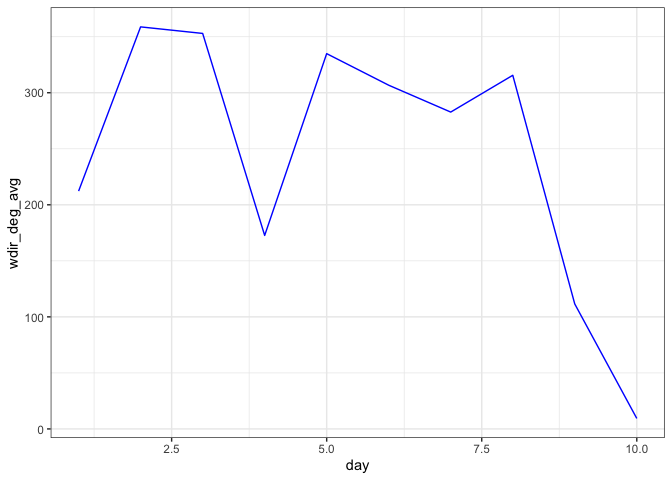
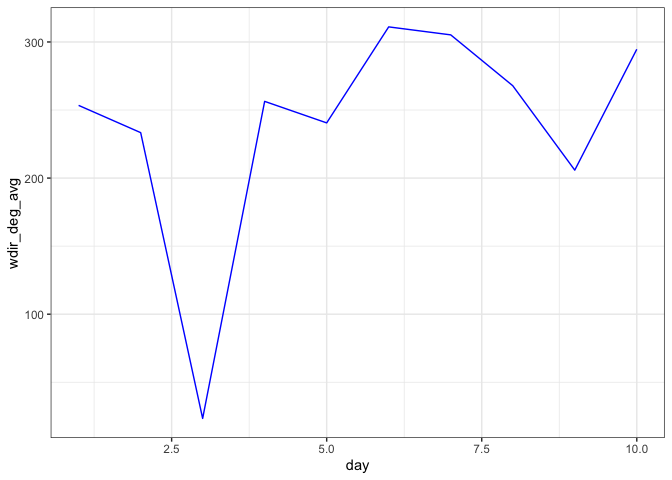
minor adjustments to R script and markdown document

diff --git a/vector-avg-wind-direction.md b/vector-avg-wind-direction.md
@@ -34,14 +34,14 @@ library(knitr)
 library(tidyverse)
 ```
 
-    ## ── Attaching packages ──────────────────────────────────────────────────────────────────────────────────────────────────────────────────────────────────────────────── tidyverse 1.3.0 ──
+    ## ── Attaching packages ────────────────────────────────────────────────────────────────────────────── tidyverse 1.3.0 ──
 
     ## ✓ ggplot2 3.3.2     ✓ purrr   0.3.4
     ## ✓ tibble  3.0.3     ✓ dplyr   1.0.1
     ## ✓ tidyr   1.1.1     ✓ stringr 1.4.0
     ## ✓ readr   1.3.1     ✓ forcats 0.5.0
 
-    ## ── Conflicts ─────────────────────────────────────────────────────────────────────────────────────────────────────────────────────────────────────────────────── tidyverse_conflicts() ──
+    ## ── Conflicts ───────────────────────────────────────────────────────────────────────────────── tidyverse_conflicts() ──
     ## x dplyr::filter() masks stats::filter()
     ## x dplyr::lag()    masks stats::lag()
 
@@ -112,10 +112,10 @@ weather_data <-
     ## Rows: 1,000
     ## Columns: 5
     ## $ day          <int> 1, 1, 1, 1, 1, 1, 1, 1, 1, 1, 1, 1, 1, 1, 1, 1, 1, 1, 1,…
-    ## $ wind_speed   <int> 11, 0, 15, 4, 14, 18, 11, 2, 17, 16, 4, 3, 2, 1, 2, 15, …
-    ## $ wdir_integer <int> 2, 10, 3, 11, 8, 4, 10, 12, 2, 0, 0, 14, 3, 14, 8, 14, 0…
-    ## $ wdir_text    <chr> "NE", "SW", "ENE", "WSW", "S", "E", "SW", "W", "NE", "N"…
-    ## $ wdir_degree  <dbl> 45.0, 225.0, 67.5, 247.5, 180.0, 90.0, 225.0, 270.0, 45.…
+    ## $ wind_speed   <int> 7, 12, 1, 4, 17, 2, 3, 17, 14, 1, 4, 4, 3, 0, 0, 3, 8, 1…
+    ## $ wdir_integer <int> 11, 13, 13, 3, 11, 4, 12, 7, 2, 6, 8, 0, 8, 5, 2, 13, 10…
+    ## $ wdir_text    <chr> "WSW", "WNW", "WNW", "ENE", "WSW", "E", "W", "SSE", "NE"…
+    ## $ wdir_degree  <dbl> 247.5, 292.5, 292.5, 67.5, 247.5, 90.0, 270.0, 157.5, 45…
 
 ### Vector averaging and results
 
@@ -136,12 +136,12 @@ weather_data %>% glimpse()
     ## Rows: 1,000
     ## Columns: 7
     ## $ day          <int> 1, 1, 1, 1, 1, 1, 1, 1, 1, 1, 1, 1, 1, 1, 1, 1, 1, 1, 1,…
-    ## $ wind_speed   <int> 11, 0, 15, 4, 14, 18, 11, 2, 17, 16, 4, 3, 2, 1, 2, 15, …
-    ## $ wdir_integer <int> 2, 10, 3, 11, 8, 4, 10, 12, 2, 0, 0, 14, 3, 14, 8, 14, 0…
-    ## $ wdir_text    <chr> "NE", "SW", "ENE", "WSW", "S", "E", "SW", "W", "NE", "N"…
-    ## $ wdir_degree  <dbl> 45.0, 225.0, 67.5, 247.5, 180.0, 90.0, 225.0, 270.0, 45.…
-    ## $ wdir_u       <dbl> -7.778175e+00, 0.000000e+00, -1.385819e+01, 3.695518e+00…
-    ## $ wdir_v       <dbl> -7.778175e+00, 0.000000e+00, -5.740251e+00, 1.530734e+00…
+    ## $ wind_speed   <int> 7, 12, 1, 4, 17, 2, 3, 17, 14, 1, 4, 4, 3, 0, 0, 3, 8, 1…
+    ## $ wdir_integer <int> 11, 13, 13, 3, 11, 4, 12, 7, 2, 6, 8, 0, 8, 5, 2, 13, 10…
+    ## $ wdir_text    <chr> "WSW", "WNW", "WNW", "ENE", "WSW", "E", "W", "SSE", "NE"…
+    ## $ wdir_degree  <dbl> 247.5, 292.5, 292.5, 67.5, 247.5, 90.0, 270.0, 157.5, 45…
+    ## $ wdir_u       <dbl> 6.467157e+00, 1.108655e+01, 9.238795e-01, -3.695518e+00,…
+    ## $ wdir_v       <dbl> 2.678784e+00, -4.592201e+00, -3.826834e-01, -1.530734e+0…
 
 ``` r
 ## Calculate the average of wind vectors, grouped by time (in this case, "day")
@@ -160,16 +160,16 @@ weather_summary %>% kable()
 
 | day | wind\_speed\_mean | wdir\_u\_mean | wdir\_v\_mean | wdir\_deg\_avg |
 |----:|------------------:|--------------:|--------------:|---------------:|
-|   1 |              8.87 |     0.4376291 |     0.6945182 |     212.215806 |
-|   2 |              8.93 |     0.0263180 |    -1.2107463 |     358.754758 |
-|   3 |              9.14 |     0.0900736 |    -0.7247804 |     352.915769 |
-|   4 |              8.30 |    -0.1156860 |     0.8972537 |     172.653188 |
-|   5 |              9.10 |     0.1523622 |    -0.3249424 |     334.878600 |
-|   6 |              8.99 |     0.6301786 |    -0.4700278 |     306.717944 |
-|   7 |              9.57 |     0.0521741 |    -0.0117936 |     282.737307 |
-|   8 |              9.25 |     0.5144167 |    -0.5243476 |     315.547747 |
-|   9 |              8.28 |    -0.9037908 |     0.3555387 |     111.473982 |
-|  10 |              8.58 |    -0.1018081 |    -0.6174415 |       9.363084 |
+|   1 |              8.05 |     1.3344228 |     0.3972995 |      253.42008 |
+|   2 |              9.31 |     1.0013527 |     0.7435443 |      233.40464 |
+|   3 |              8.85 |    -0.5893885 |    -1.3606381 |       23.42084 |
+|   4 |              9.97 |     1.0747253 |     0.2608611 |      256.35681 |
+|   5 |              9.42 |     0.2855054 |     0.1612130 |      240.54840 |
+|   6 |              8.38 |     0.4539446 |    -0.3957596 |      311.08269 |
+|   7 |              9.48 |     0.1344847 |    -0.0949312 |      305.21783 |
+|   8 |              9.75 |     1.2204521 |     0.0455732 |      267.86150 |
+|   9 |              8.65 |     0.4485593 |     0.9260219 |      205.84526 |
+|  10 |              8.17 |     0.2491467 |    -0.1142754 |      294.63937 |
 
 It is possible to calculate the standard deviation of wind speed and
 wind direction, but implementing this will take additional work.
@@ -220,17 +220,24 @@ dir_vec <- c(310, 340, 355, 5, 15, 20)
 sp_vec = sample(2:7)
 u <- -sp_vec * sin(2 * pi * dir_vec / 360)
 v <- -sp_vec * cos(2 * pi * dir_vec / 360)
-## Should be close to 360 and not close to the average of `dir_vec`
+```
+
+The result should be close to 360 and not close to the average of
+`dir_vec`
+
+``` r
+## Result of vector averaging:
+(atan2(mean(u), mean(v)) * 360 / 2 / pi) + 180
+```
+
+    ## [1] 1.201419
+
+``` r
+## Arithmetic mean of vector:
 mean(dir_vec)
 ```
 
     ## [1] 174.1667
-
-``` r
-(atan2(mean(u), mean(v)) * 360 / 2 / pi) + 180
-```
-
-    ## [1] 354.6107
 
 ### Code simplification
 
